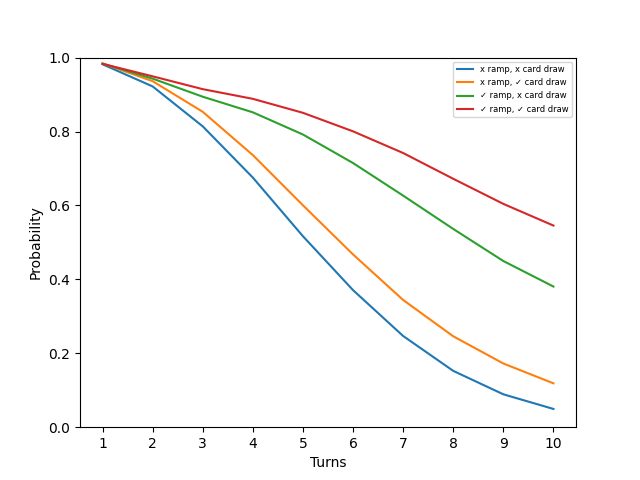
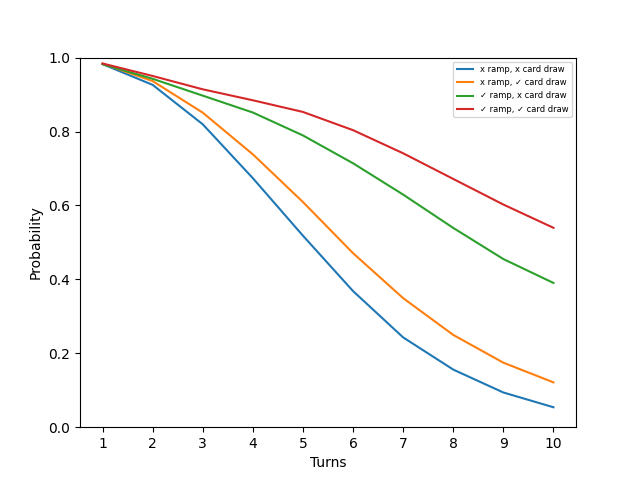
Introduce maximum attainable mana helper

diff --git a/models/run_single.py b/models/run_single.py
@@ -12,7 +12,6 @@ def run_single(deck, ai, turns):
     gold_generators = []
 
     mana_per_turn = turns*[None]
-    unplayables_per_turn = turns*[None]
     for turn in range(turns):
         # Allow playing a single land per turn
         land_for_turn = False
@@ -24,14 +23,7 @@ def run_single(deck, ai, turns):
         mana  = sum([generator.__next__() for generator in mana_generators]) # Tap everything for mana
         gold += sum([generator.__next__() for generator in gold_generators]) # Create gold
 
-        # Consider the max mana to be gained from playing a land this turn (but don't play it)
-        max_mana_from_land = max([0]+[card.mana_sequence.finite_prefix(1)[0] for card in hand if card.land])
-        max_on_turn = mana + gold + max_mana_from_land
-
-        if len(hand) > 0:
-            unplayables_per_turn[turn] = sum([1 for card in hand if card.cost > max_on_turn and not card.land])/len(hand)
-        else:
-            unplayables_per_turn[turn] = 0.0
+        mana_per_turn[turn] = max_attainable_mana({'hand': hand, 'mana': mana, 'gold': gold, 'land_for_turn': land_for_turn})
 
         # Until there's nothing left to do, or the AI stops playing
         while True:
@@ -40,11 +32,12 @@ def run_single(deck, ai, turns):
                 break
 
             # Let AI choose a card
-            chosen = ai.choose({'hand': hand, 'playable_cards': playable_cards, 'mana': mana, 'gold': gold, 'land_for_turn': land_for_turn})
+            chosen = ai.choose({'turn': turn+1, 'hand': hand, 'playable_cards': playable_cards, 'mana': mana, 'gold': gold, 'land_for_turn': land_for_turn})
             if chosen not in playable_cards:
                 break
 
             # Play chosen card
+            # TODO: implement land search
             card = hand.pop(chosen)
             mana_generator = card.mana_sequence.generator()
             draw_generator = card.draw_sequence.generator()
@@ -56,15 +49,28 @@ def run_single(deck, ai, turns):
             land_for_turn = land_for_turn or card.land # Disable land play if it was a land
             gold += gold_generator.__next__() - min([gold, max([0, card.cost-mana])]) # Pay appropriate gold
             mana += mana_generator.__next__() - min([mana, card.cost])                # Pay appropriate mana
+            draw = draw_generator.__next__()
 
-            for _ in range(draw_generator.__next__()):
+            for _ in range(draw):
                 hand.append(remaining.pop()) # Draw appropriate amount of cards
-
-            # TODO: implement land search
-
-            # Available mana on this turn may have increased after playing a card
-            max_mana_from_land = max([0]+[card.mana_sequence.finite_prefix(1)[0] for card in hand if card.land and not land_for_turn])
-            max_on_turn = max(mana + gold + max_mana_from_land, max_on_turn)
-
-        mana_per_turn[turn] = max_on_turn
+            if draw > 0:
+                # Maximum attainable mana may have changed after drawing cards
+                mana_per_turn[turn] = max(mana_per_turn[turn], max_attainable_mana({'hand': hand, 'mana': mana, 'gold': gold, 'land_for_turn': land_for_turn}))
     return mana_per_turn
+
+# How much mana can we attain this turn (without considering card draw), by:
+#   - Tapping everything we have for mana
+#   - Cracking all gold tokens for mana
+#   - Playing the land that gives the most mana in the current turn
+#   - And only playing cards that net mana
+def max_attainable_mana(context):
+    hand, mana, gold, land_for_turn = [context[k] for k in ['hand', 'mana', 'gold', 'land_for_turn']]
+
+    max_attainable_mana = mana + gold
+    max_attainable_mana += max([0]+[card.netgain() for card in hand if card.land and not land_for_turn])
+    for card in sorted([card for card in hand if not card.land], key=lambda card: card.cost):
+        max_attainable_mana += max([0, card.netgain()])
+        if card.cost > max_attainable_mana:
+            break
+
+    return max_attainable_mana

diff --git a/main.py b/main.py
@@ -28,17 +28,16 @@ import matplotlib.pyplot as plt
 x,y = [2,2]
 fig, axs = plt.subplots(y,x)
 mana_by_turn = []
+averages = []
 for i,(ax,(template_name,deck)) in enumerate(zip(axs.flat, decks)):
-    experiment = Experiment(deck=deck, ai=AI.less_naive, turns=10, repeats=30000, options={ 'variance_reduction': 'antithetic-variates' })
+    experiment = Experiment(deck=deck, ai=AI.naive, turns=10, repeats=30000, options={ 'variance_reduction': 'antithetic-variates' })
     metrics = [Metric.minimum_mana(turn+1) for turn in range(experiment.turns)]
     results = experiment.evaluate(metrics)
     xs = list([turn+1 for turn in range(experiment.turns)])
-    print(template_name)
     for name,values in results.items():
-        print("  - {}: {}".format(name, values))
         ax.plot(xs, values, label=name)
-    print()
     mana_equals_turns = list(experiment.evaluate([Metric.minimum_turn_mana]).values())[0]
+    averages.append(list(experiment.evaluate([Metric.mean]).values())[0])
     mana_by_turn.append(mana_equals_turns)
     ax.plot(xs, mana_equals_turns, 'g--', label="≥'turn' mana")
     ax.set_xticks([turn+1 for turn in range(experiment.turns)])
@@ -53,9 +52,19 @@ plt.show()
 
 for (template_name, _), res in zip(decks, mana_by_turn):
     plt.plot(xs, res, label=template_name)
+    print(template_name, "\t{}\n".format(list(map(lambda x: round(x, 3), res))))
 plt.xlabel('Turns')
 plt.ylabel('Probability')
 plt.xticks([turn+1 for turn in range(experiment.turns)])
 plt.ylim([0, 1])
+plt.legend(loc=1, prop={'size': 6})
+plt.show()
+
+for (template_name, _), res in zip(decks, averages):
+    plt.plot(xs, res, label=template_name)
+    print(template_name, "\t{}\n".format(list(map(lambda x: round(x, 3), res))))
+plt.xlabel('Turns')
+plt.ylabel('Average mana')
+plt.xticks([turn+1 for turn in range(experiment.turns)])
 plt.legend(loc=1, prop={'size': 6})
 plt.show()

diff --git a/models/sequence.py b/models/sequence.py
@@ -1,6 +1,8 @@
 from typing import List, Iterator
 from math import ceil
 
+from models.helpers import divisors, lcm
+
 class Sequence:
     zero = None
     one  = None
@@ -11,12 +13,29 @@ class Sequence:
         self.normalize()
 
     def normalize(self):
+        # Reduce prefix size by 'rotating' the repeated part
         while len(self.prefix) > 0 and self.prefix[-1] == self.repeat[-1]:
             self.prefix = self.prefix[:-1]
             self.repeat = self.repeat[-1:]+self.repeat[:-1]
 
+        # Reduce repeated size by identifying sublist that multiply
+        for d in divisors(len(self.repeat)):
+            times = len(self.repeat)//d
+            if self.repeat == times*self.repeat[:d]:
+                self.repeat = self.repeat[:d]
+                break
+        return self
+
     def __eq__(self, other: 'Sequence') -> bool:
         return self.prefix == other.prefix and self.repeat == other.repeat
+
+    def __add__(self, other: 'Sequence') -> 'Sequence':
+        prefix_length = max([len(self.prefix), len(other.prefix)])
+        repeat_length = lcm(len(self.repeat), len(other.repeat))
+        prefix1 = self.finite_prefix(prefix_length + repeat_length)
+        prefix2 = other.finite_prefix(prefix_length + repeat_length)
+        summed = list(map(sum, zip(prefix1, prefix2)))
+        return Sequence(summed[:prefix_length], summed[prefix_length:]).normalize()
 
     def prefixed_by(self, additional_prefix: List[int]) -> 'Sequence':
         return Sequence(additional_prefix + self.prefix, self.repeat)

diff --git a/models/card.py b/models/card.py
@@ -14,6 +14,11 @@ class Card:
         self.draw_sequence = draw_sequence if draw_sequence is not None else Sequence.zero
         self.gold_sequence = gold_sequence if gold_sequence is not None else Sequence.zero
 
+    def approximate_net_mana_sequence(self):
+        return self.mana_sequence + self.gold_sequence + Sequence.once(-self.cost)
+    def netgain(self):
+        return self.approximate_net_mana_sequence().finite_prefix(1)[0]
+
     @staticmethod
     def untapped_rock(cost, mana):
         return Card(cost=cost, mana_sequence=Sequence.repeat(mana))

diff --git a/models/helpers.py b/models/helpers.py
@@ -1,0 +1,12 @@
+from math import gcd, sqrt
+
+def divisors(n):
+    divs = [1]
+    for i in range(2,int(sqrt(n))+1):
+        if n%i == 0:
+            divs.extend([i,n//i])
+    divs.extend([n])
+    return list(set(divs))
+
+def lcm(a,b):
+    return a*b//gcd(a,b)
